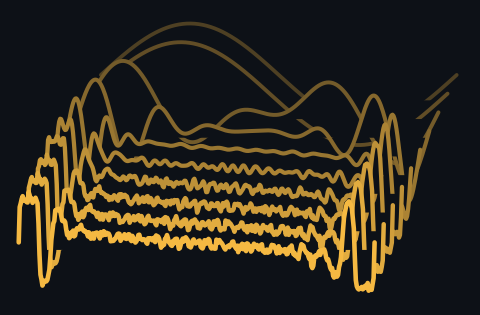
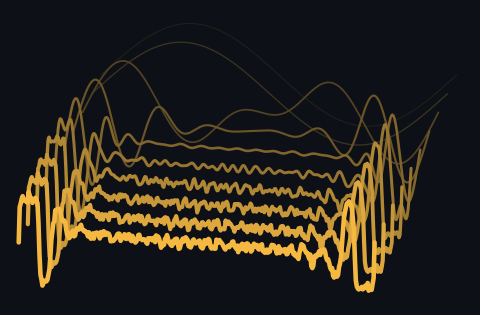
docs: wavetable graphics with linear opacity/thickness fade, no hidden-line cuts

diff --git a/scripts/wavetable_stack.py b/scripts/wavetable_stack.py
@@ -18,7 +18,8 @@ def _mix(c, w, bg=BG):
     return tuple(b + (c - b) * w)
 
 
-def draw_stack(ax, frames, color, points=360, amp=0.55, dx=0.020, dy=0.060, width=2.2):
+def draw_stack(ax, frames, color, points=360, amp=0.55, dx=0.020, dy=0.060, width=2.2,
+               fade_min=0.10, width_min=0.20, hide_behind=False):
     """frames[0] is drawn at the FRONT (bottom), frames[-1] at the back (top)."""
     n = len(frames)
     for k in range(n - 1, -1, -1):          # back to front (painter's algorithm)
@@ -29,9 +30,10 @@ def draw_stack(ax, frames, color, points=360, amp=0.55, dx=0.020, dy=0.060, widt
         x = np.linspace(0, 1, points + 1)
         ox, oy = k * dx, k * dy
         X, Y = x * 0.78 + ox, y * amp * dy * 5 + oy
-        ax.fill_between(X, Y, oy - 0.02, color=BG, zorder=2 * (n - k), lw=0)
-        depth = 1.0 - 0.72 * (k / max(n - 1, 1))
-        ax.plot(X, Y, color=_mix(color, depth), lw=width * (0.75 + 0.25 * depth),
+        if hide_behind:                     # opaque fill = hidden-line look (cuts the back curves); off by default
+            ax.fill_between(X, Y, oy - 0.02, color=BG, zorder=2 * (n - k), lw=0)
+        t = k / max(n - 1, 1)               # 0 = front, 1 = back; opacity and thickness fall off linearly
+        ax.plot(X, Y, color=_mix(color, 1.0 - t * (1.0 - fade_min)), lw=width * (1.0 - t * (1.0 - width_min)),
                 zorder=2 * (n - k) + 1, solid_capstyle="round")
 
 
